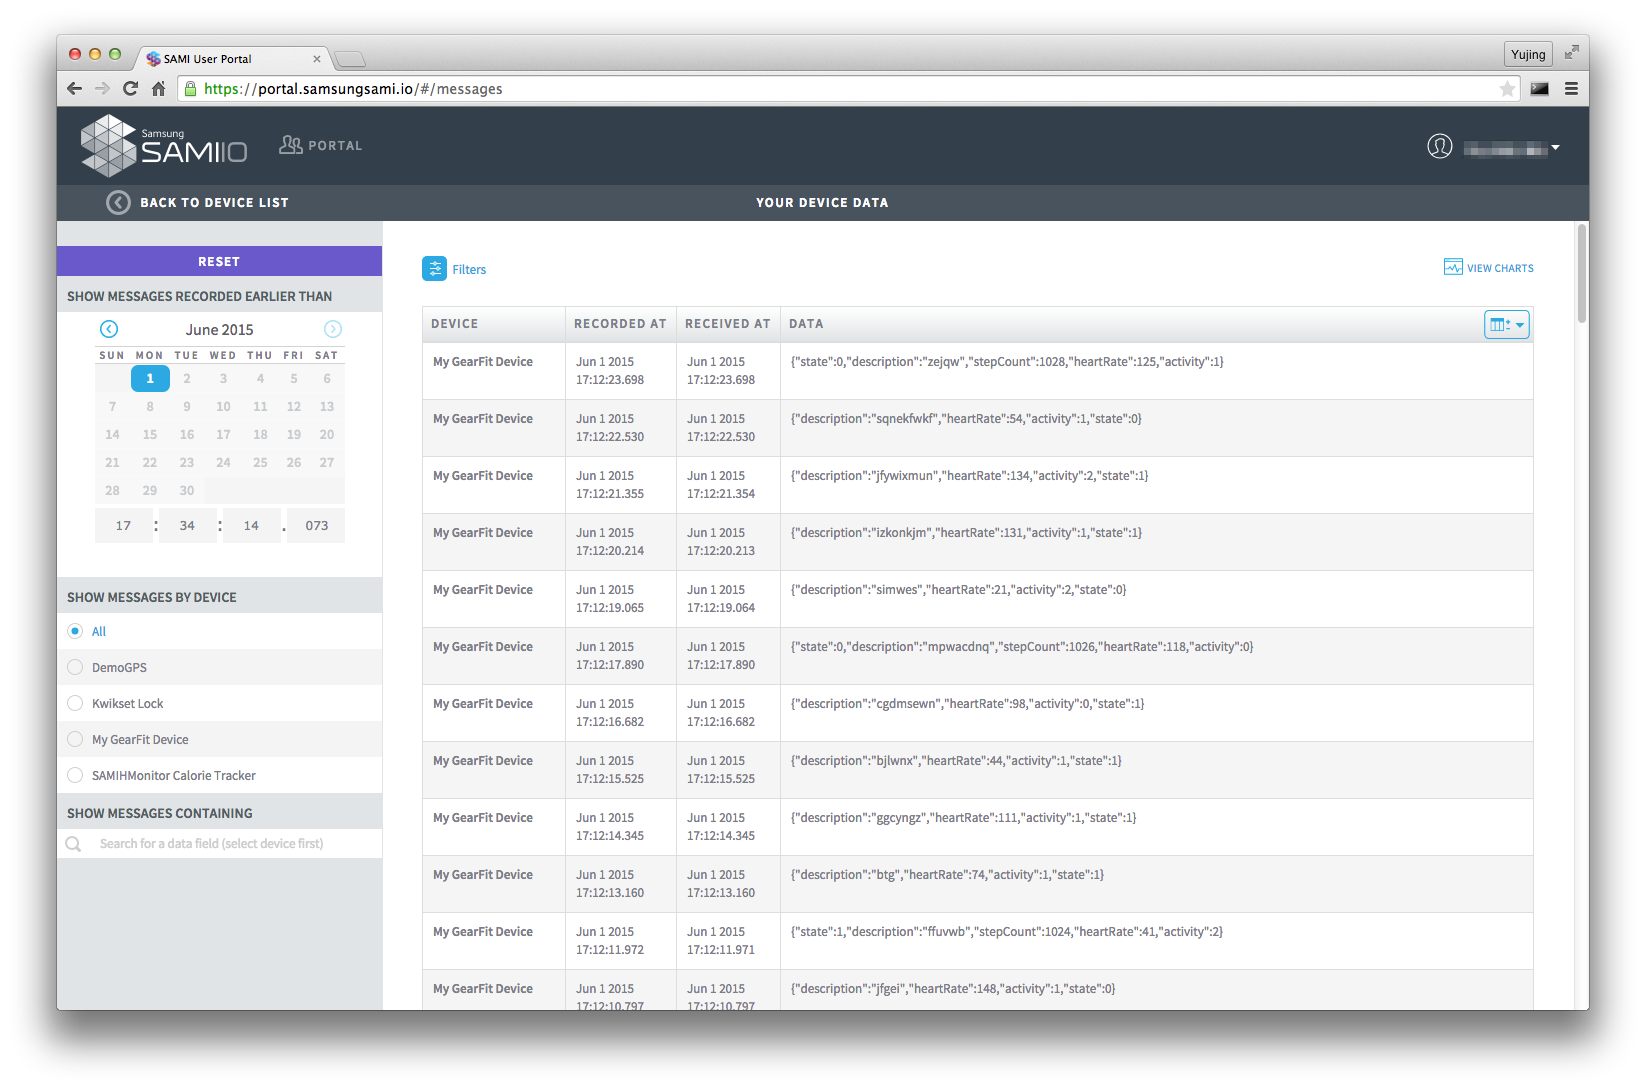
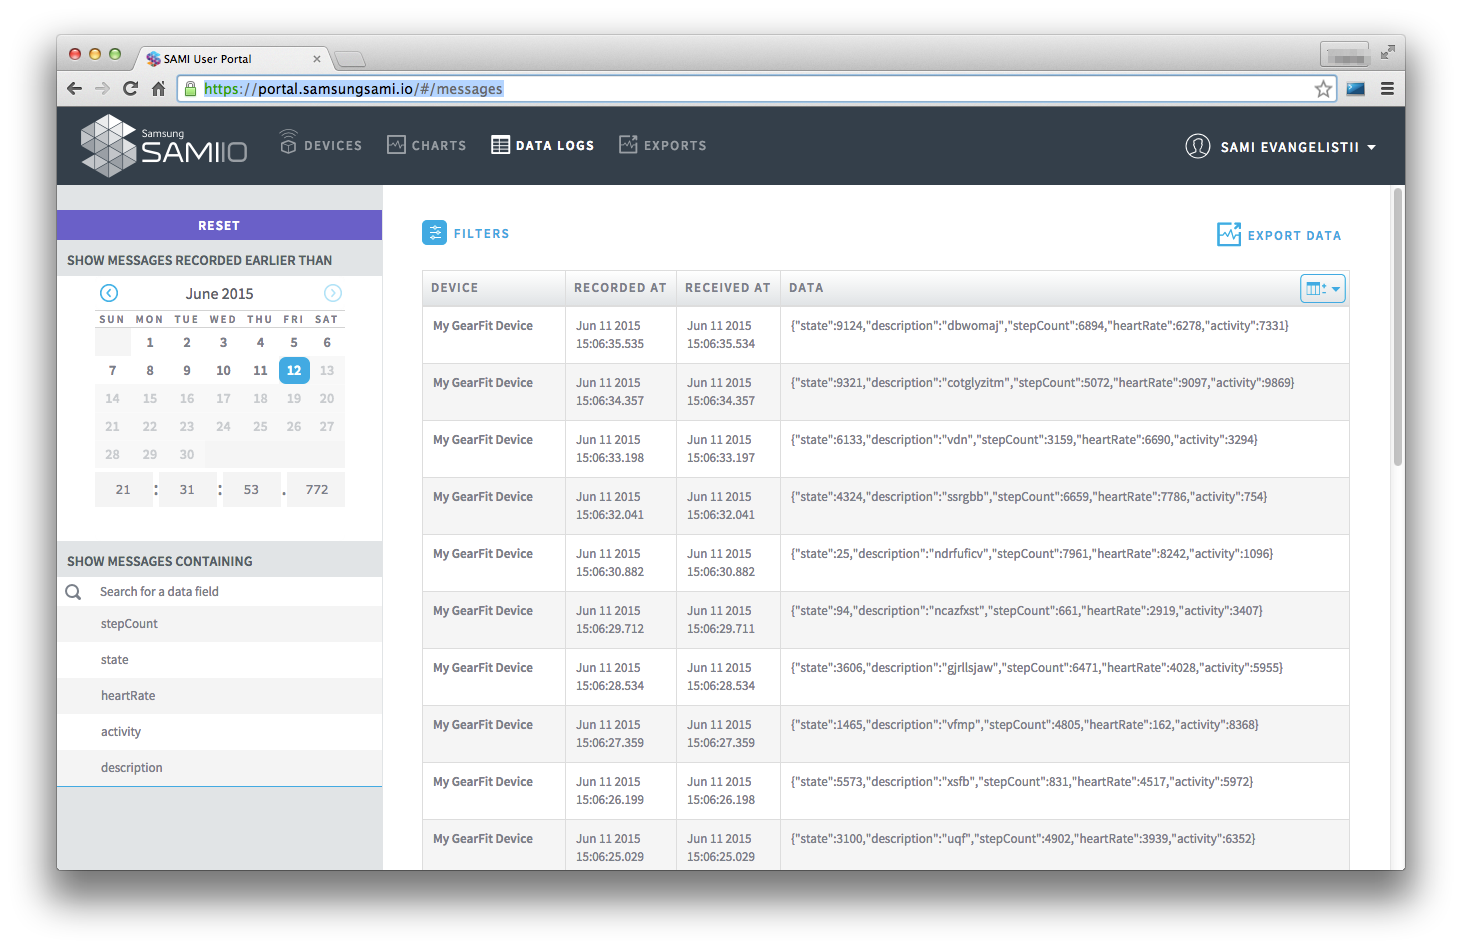
SAMIDE-195 update screenshots and text in Hello World to match the UI change in devportal

Changed region(s): [[0.0308, 0.0306, 0.985, 0.9473]]

diff --git a/source/sami/sami-documentation/hello-world.md b/source/sami/sami-documentation/hello-world.md
@@ -96,7 +96,7 @@ Got MID: 8aa1a183895c42efb905223b3cb5f918
 
 ## Step 5: Visualize the data
 
-Go back to the [User Portal](https://portal.samsungsami.io) to visualize the data sent to SAMI by the Device Simulator. Since this data is sent on behalf of My GearFit Device, click the magnifying glass next to it on the dashboard. 
+Go back to the [User Portal](https://portal.samsungsami.io) to visualize the data sent to SAMI by the Device Simulator. Since this data is sent on behalf of My GearFit Device, click the device name on the dashboard. 
 
 ![device simulator quick start magnifying glass](/images/docs/sami/sami-documentation/ds_magnifying_glass.png)
 
@@ -108,7 +108,7 @@ Now you can view your simulation data in real-time!
 
  ![device simulator realtime data](/images/docs/sami/sami-documentation/ds_data_charts.png){:.lightbox}
 
-You can also click "VIEW TABLE" to view and sort the individual messages sent. 
+You can also click "DATA LOGS" to view and sort the individual messages sent. 
 
  ![device simulator data table](/images/docs/sami/sami-documentation/ds_data_table.png){:.lightbox}
 
